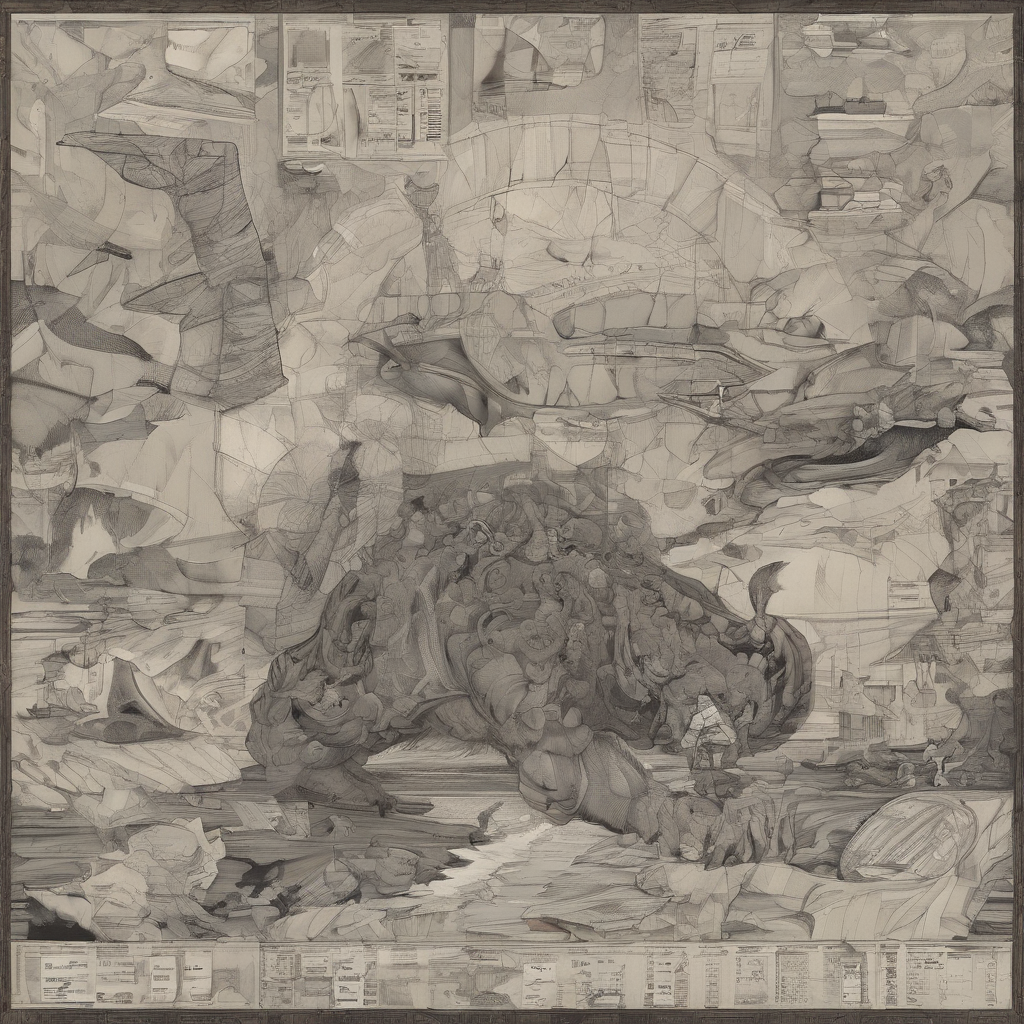
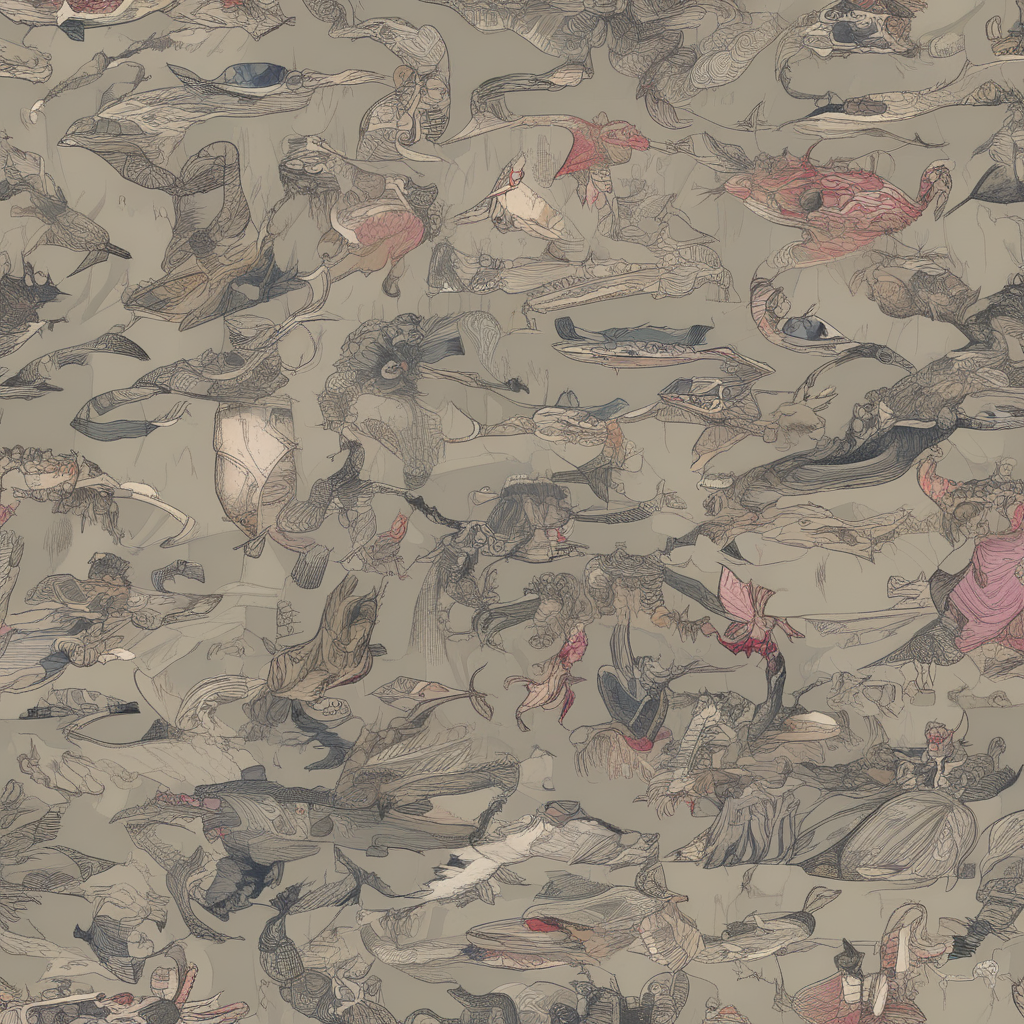
New Branch for test train LoRa model SDXL

diff --git a/scripts/ml_sdxl_model/train_lora_custom_sdxl.py b/scripts/ml_sdxl_model/train_lora_custom_sdxl.py
@@ -18,17 +18,13 @@ from utils.constants import PATH_FOLDER_SDXL, PATH_DATASET_GENERATED, PATH_MODEL
 
 class TerrainDataset(Dataset):
 
-    image_path = None
-    transform = None
-    dummy_prompt = None
-
     def __init__(self, image_dir, size=1024):
         self.image_path = [os.path.join(image_dir, f) for f in os.listdir(image_dir) 
                            if f.endswith(('.png', '.jpg'))]
         self.transform = transforms.Compose([
             transforms.Resize((size, size), interpolation=transforms.InterpolationMode.BILINEAR),
             transforms.ToTensor(),
-            transforms.Normalize([0.5], [0.5])
+            transforms.Normalize([0.5, 0.5, 0.5], [0.5, 0.5, 0.5])
         ])
 
         self.dummy_prompt = ""
@@ -64,7 +60,7 @@ def train_lora_custom():
     )
 
     vae = pipe.vae.to(device, dtype=torch.float32)
-    unet = pipe.unet.to(device, dtype=torch.float8_e4m3fn)
+    unet = pipe.unet.to(device, dtype=torch.float16)
     text_encoder_1 = pipe.text_encoder.to(device)
     text_encoder_2 = pipe.text_encoder_2.to(device)
     tokenizer_1 = pipe.tokenizer
@@ -75,7 +71,6 @@ def train_lora_custom():
     text_encoder_1.requires_grad_(False)
     text_encoder_2.requires_grad_(False)
     unet.requires_grad_(False)
-
 
     unet.enable_gradient_checkpointing()
 
@@ -114,8 +109,9 @@ def train_lora_custom():
     trainable_parameters = [p for p in unet.parameters() if p.requires_grad]
     optimizer = bnb.optim.AdamW8bit(trainable_parameters, lr=learning_rate, weight_decay=1e-2)
     scaler = torch.amp.GradScaler('cuda')
-  
-    dataset = TerrainDataset(get_full_path(dataset_folder))
+
+    size_img_format = 768
+    dataset = TerrainDataset(get_full_path(dataset_folder), size=size_img_format)
     dataloader = DataLoader(dataset, batch_size=batch_size, shuffle=True)
 
     max_train_steps = num_epochs * len(dataloader) // gradient_accumulation_steps
@@ -166,7 +162,7 @@ def train_lora_custom():
             prompt_embeds = static_prompt_embeds.repeat(bsz, 1, 1)
             pooled_prompt_embeds = static_pooled_embeds.repeat(bsz, 1)
                 
-            add_time_ids = torch.tensor([[1024, 1024, 0, 0, 1024, 1024]], dtype=torch.float16, device=device)
+            add_time_ids = torch.tensor([[size_img_format, size_img_format, 0, 0, size_img_format, size_img_format]], dtype=torch.float16, device=device)
             add_time_ids = add_time_ids.repeat(bsz, 1) 
 
             added_cond_kwargs = {"text_embeds": pooled_prompt_embeds, "time_ids": add_time_ids}
@@ -182,7 +178,7 @@ def train_lora_custom():
                 print("IL COLPETEVOLE È IL NOISE SCHEDULER: Il rumore aggiunto ha generato NaN!")
 
 
-            with torch.amp.autocast('cuda', dtype=torch.bfloat16):
+            with torch.amp.autocast('cuda', dtype=torch.float16):
                 noise_pred = unet(
                     noisy_latents, 
                     timesteps, 
@@ -190,7 +186,9 @@ def train_lora_custom():
                     added_cond_kwargs=added_cond_kwargs
                 ).sample
 
-            loss = F.mse_loss(noise_pred.float(), noise.float(), reduction="mean")
+                loss = F.mse_loss(noise_pred, noise, reduction="mean")
+
+            loss_value = loss.item()
 
             loss = loss / gradient_accumulation_steps
             scaler.scale(loss).backward()
@@ -211,7 +209,7 @@ def train_lora_custom():
 
             print("\n===== END GRADIENT CHECK =====")
 
-            epoch_loss += loss.item() * gradient_accumulation_steps
+            epoch_loss += loss_value
 
             if (step + 1) % gradient_accumulation_steps == 0 or (step + 1) == len(dataloader):
                 # 1. Riporta i gradienti alla scala normale prima del clipping
@@ -270,13 +268,38 @@ def train_lora_custom():
 
         print(f"Saving checkpoint Epoch {epoch+1}...")
         cartella_epoca = get_full_path(output_dir_weights_epoch, f"epoch_{epoch+1}")
-        unet.save_pretrained(cartella_epoca)
+
+        #unet.save_pretrained(cartella_epoca)
+
+        os.makedirs(cartella_epoca, exist_ok=True)
+        
+        # Estrarre i soli pesi del LoRA dall'oggetto PEFT unet
+        peft_state_dict = get_peft_model_state_dict(unet)
+        diffusers_lora_state_dict = convert_all_state_dict_to_peft(peft_state_dict)
+
+        pipe.save_lora_weights(
+            save_directory=cartella_epoca,
+            weight_name="pytorch_lora_weights.safetensors",
+            unet_lora_layers=diffusers_lora_state_dict
+        )
+
         print(f"Checkpoint saved: {cartella_epoca}\n")
-        #print(f"Epoch {epoch+1}/{num_epochs} - Loss: {epoch_loss/len(dataloader):.4f}")
+
 
     print("Saving the final model...")
     cartella_model_final = get_full_path(output_dir_model)
-    unet.save_pretrained(cartella_model_final)
+    #unet.save_pretrained(cartella_model_final)
+    os.makedirs(cartella_model_final, exist_ok=True)
+        
+    peft_state_dict = get_peft_model_state_dict(unet)
+    diffusers_lora_state_dict = convert_all_state_dict_to_peft(peft_state_dict)
+        
+    pipe.save_lora_weights(
+        save_directory=cartella_model_final,
+        weight_name="pytorch_lora_weights.safetensors",
+        unet_lora_layers=diffusers_lora_state_dict
+    )
+
     print(f"Training completed! Final weights saved in: {cartella_model_final}")
 
 if __name__ == "__main__":

diff --git a/scripts/ml_sdxl_model/generate_landscape.py b/scripts/ml_sdxl_model/generate_landscape.py
@@ -1,5 +1,7 @@
 import torch
 from diffusers import StableDiffusionXLPipeline, DPMSolverMultistepScheduler
+from diffusers.loaders import StableDiffusionLoraLoaderMixin
+from diffusers.utils import convert_unet_state_dict_to_peft
 import sys, os
 
 sys.path.append(os.path.dirname(os.path.dirname(__file__))) 
@@ -20,28 +22,42 @@ def generate_landscape():
     )
     pipe = pipe.to("cuda")
 
-    # 2. Scheduler ottimizzato per velocità
-    pipe.scheduler = DPMSolverMultistepScheduler.from_config(
-        pipe.scheduler.config,
-        use_karras_sigmas=True
-    )
+    pipe.scheduler = DPMSolverMultistepScheduler.from_config(pipe.scheduler.config)
 
     # ======================================================
     # 3. CARICAMENTO LORA
     # ======================================================
-    nome_cartella_epoca = "epoch_10"
+    nome_cartella_epoca = "epoch_1"
     lora_weights = 1.0
-    lora_folder_path = get_full_path(PATH_MODEL_SINGLE_EPOCH_WEIGHTS, nome_cartella_epoca)
+    lora_folder_path = get_full_path(PATH_MODEL_SINGLE_EPOCH_WEIGHTS, nome_cartella_epoca, "pytorch_lora_weights.safetensors")
     file_pesi = get_full_path(PATH_FOLDER_SDXL, nome_cartella_epoca, "adapter_model.safetensors")
 
     if os.path.exists(lora_folder_path):
         print(f"Caricamento del LoRA custom dalla cartella: {lora_folder_path}")
         
-        pipe.load_lora_weights(lora_folder_path)
+        # Estrarre lo state dict usando il loader ufficiale di Diffusers
+        # Questo metodo legge correttamente il file 'pytorch_lora_weights.safetensors' senza richiedere JSON
+        lora_state_dict, _ = StableDiffusionLoraLoaderMixin.lora_state_dict(lora_folder_path)
+        
+        # Isolare e pulire le chiavi destinate alla UNet (esattamente come nel file di training)
+        unet_state_dict = {
+            f"{k.replace('unet.', '')}": v 
+            for k, v in lora_state_dict.items() if k.startswith("unet.") or "base_model.model." in k
+        }
+        
+        # Rimuovere eventuali residui di testo manuali prima della conversione ufficiale
+        cleaned_unet_dict = {}
+        for k, v in unet_state_dict.items():
+            cleaned_key = k.replace("base_model.model.", "")
+            cleaned_unet_dict[cleaned_key] = v
 
-        # fuse_lora "fonde" fisicamente la matematica del LoRA dentro la UNet.
-        # È molto più potente e stabile di set_adapters() per la generazione incondizionata.
-        #pipe.fuse_lora(lora_scale=1.0)
+        peft_unet_state_dict = convert_unet_state_dict_to_peft(cleaned_unet_dict)
+        
+        # Caricare lo state dict convertito e validato nella pipeline
+        pipe.load_lora_weights(peft_unet_state_dict)
+        
+        # Fondere i pesi LoRA direttamente nella UNet
+        pipe.fuse_lora(lora_scale=3.0)
         
         
         print("LoRA caricato e fuso con successo sulla UNet!")
@@ -58,16 +74,16 @@ def generate_landscape():
         prompt = "",
         negative_prompt= "",
         num_inference_steps=30,
-        guidance_scale=1.0,
+        guidance_scale=0.0,
         original_size=(1024, 1024),
         target_size=(1024, 1024),
         crops_coords_top_left=(0, 0),
-        width=1024,
-        height=1024,
-        generator=generator,
-        cross_attention_kwargs={"scale": lora_weights}
+        width=768,
+        height=768,
+        generator=generator
     ).images[0]
 
+    image = image.convert("L")
     # 5. Salvataggio
     output_path = get_full_path(PATH_FOLDER_SDXL, f"paesaggio_generato_{nome_cartella_epoca}_LoRaAtiva.png")
     image.save(output_path)
